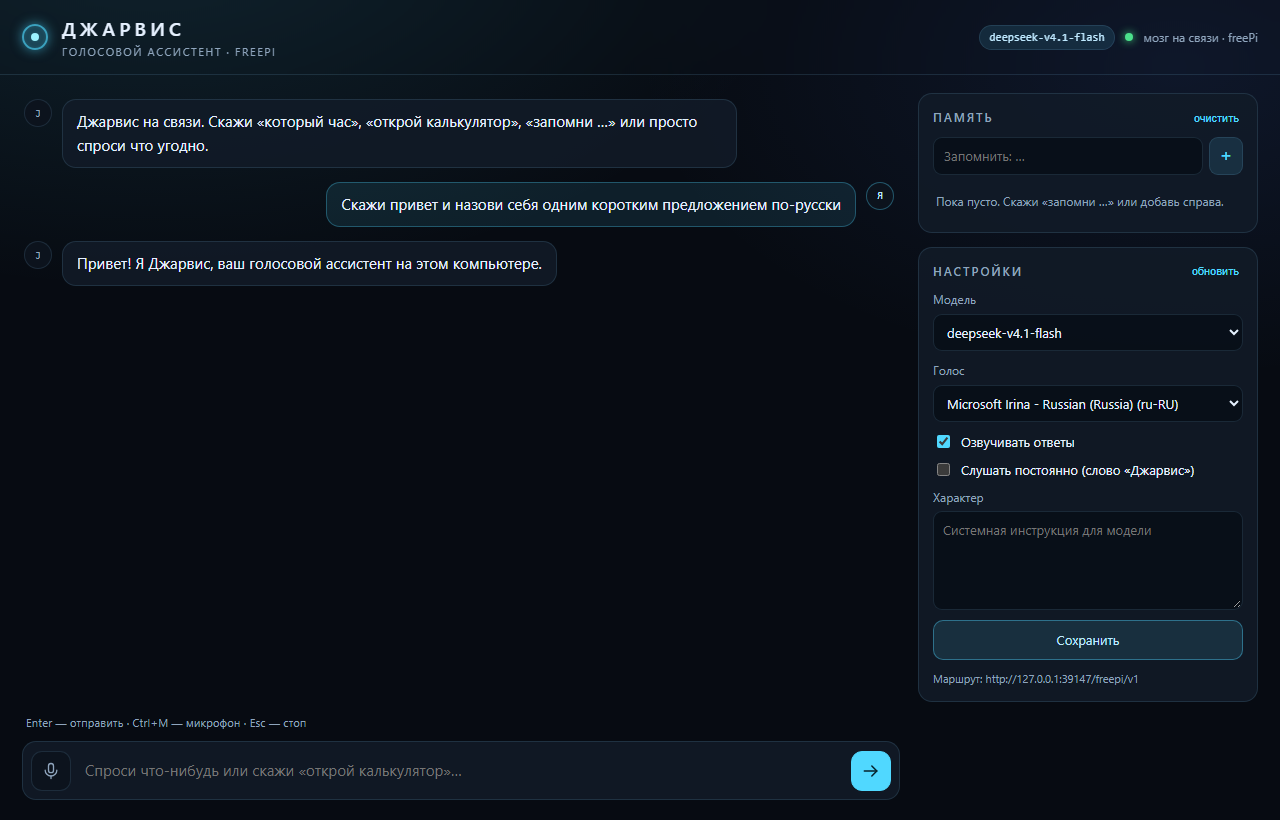
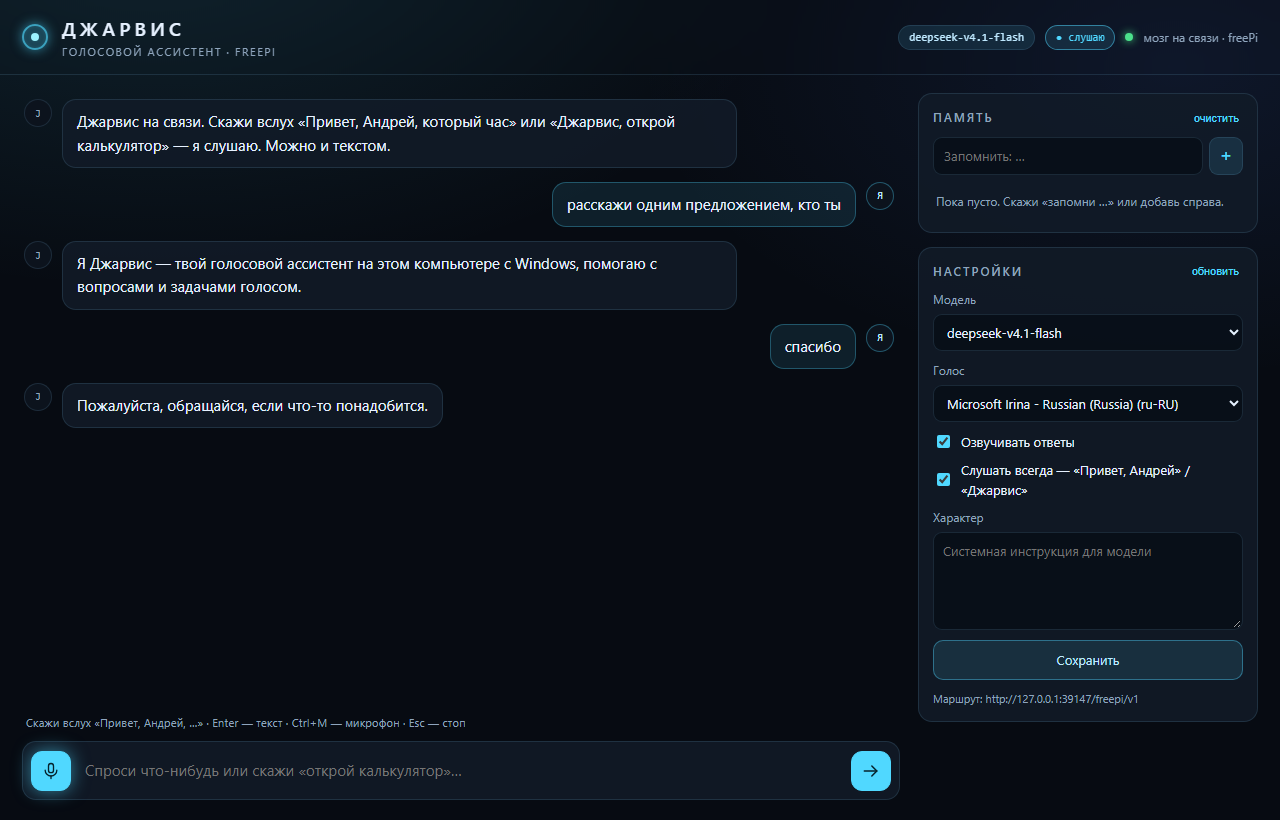
Jarvis: wake phrases and always-on listening

diff --git a/Jarvis/public/app.js b/Jarvis/public/app.js
@@ -12,7 +12,7 @@ const state = {
   busy: false,
   controller: null,
   recognizing: false,
-  handsFree: false,
+  handsFree: true,
   timer: null,
   voices: [],
   lastReply: "",
@@ -183,16 +183,21 @@ function createRecognition() {
   instance.onstart = () => {
     state.recognizing = true
     el("micBtn").setAttribute("aria-pressed", "true")
+    updateVoiceIndicator()
   }
   instance.onend = () => {
     state.recognizing = false
     el("micBtn").setAttribute("aria-pressed", "false")
+    updateVoiceIndicator()
+    if (state.handsFree && !state.micBlocked && !state.busy) scheduleListen()
   }
   instance.onerror = (event) => {
     state.recognizing = false
     el("micBtn").setAttribute("aria-pressed", "false")
+    updateVoiceIndicator()
     if (event.error === "not-allowed" || event.error === "service-not-allowed") {
-      addMessage("assistant", "Браузер не дал доступ к микрофону: разреши его в настройках сайта.")
+      state.micBlocked = true
+      addMessage("assistant", "Браузер не дал доступ к микрофону: нажми на кнопку микрофона или разреши доступ в настройках сайта.")
     }
   }
   instance.onresult = (event) => {
@@ -201,23 +206,40 @@ function createRecognition() {
       text += event.results[index][0].transcript
     }
     const final = event.results[event.results.length - 1].isFinal
-    el("input").value = text.trim()
-    resizeInput()
+    if (!state.handsFree) {
+      el("input").value = text.trim()
+      resizeInput()
+    }
     if (final) {
       const phrase = text.trim()
       if (phrase === "") return
       if (state.handsFree) {
-        const lower = phrase.toLowerCase()
-        if (!lower.includes("джарвис") && !lower.includes("jarvis")) return
-        const stripped = phrase.replace(/джарвис|jarvis/gi, "").replace(/^[\s,.!?:-]+/, "").trim()
-        if (stripped === "") return
-        send(stripped)
+        const parsed = stripWake(phrase)
+        if (parsed === null) return
+        if (parsed.rest === "") {
+          addMessage("assistant", "Слушаю, Андрей.")
+          if (state.settings.autospeak) speak("Слушаю, Андрей.")
+          scheduleListen()
+          return
+        }
+        send(parsed.rest)
         return
       }
       send(phrase)
     }
   }
   return instance
+}
+
+const stripWake = JarvisWake.stripWake
+
+function updateVoiceIndicator() {
+  const chip = el("voiceChip")
+  el("micBtn").classList.toggle("live", state.recognizing === true)
+  if (chip === null) return
+  chip.hidden = !(state.handsFree && recognition !== null)
+  chip.textContent = state.recognizing ? "\u25cf слушаю" : "\u25cb микрофон"
+  chip.classList.toggle("live", state.recognizing === true)
 }
 
 function setListening(on) {
@@ -284,6 +306,7 @@ function pickVoice() {
 
 function speak(text) {
   if (!window.speechSynthesis) return
+  if (state.recognizing) setListening(false)
   window.speechSynthesis.cancel()
   const utterance = new SpeechSynthesisUtterance(text)
   const voice = pickVoice()
@@ -488,11 +511,24 @@ async function boot() {
     addMessage("assistant", "Сервер не отвечает: " + error.message)
   }
 
-  state.handsFree = localStorage.getItem("jarvis-handsfree") === "1"
+  state.handsFree = localStorage.getItem("jarvis-handsfree") !== "0"
   el("handsFree").checked = state.handsFree
 
+  if (state.handsFree) {
+    setListening(true)
+    const retry = () => {
+      if (state.handsFree && (!state.recognizing || state.micBlocked)) {
+        state.micBlocked = false
+        setListening(true)
+      }
+    }
+    document.addEventListener("pointerdown", retry)
+    document.addEventListener("keydown", retry)
+  }
+  updateVoiceIndicator()
+
   if (state.messages.length === 0) {
-    addMessage("assistant", "Джарвис на связи. Скажи «который час», «открой калькулятор», «запомни …» или просто спроси что угодно.")
+    addMessage("assistant", "Джарвис на связи. Скажи вслух «Привет, Андрей, который час» или «Джарвис, открой калькулятор» — я слушаю. Можно и текстом.")
   }
 
   await refreshStatus()
@@ -516,6 +552,7 @@ el("input").addEventListener("keydown", (event) => {
 
 el("micBtn").addEventListener("click", () => {
   if (recognition === null) return
+  state.micBlocked = false
   if (state.recognizing) {
     setListening(false)
     return
@@ -545,8 +582,13 @@ el("saveSettings").addEventListener("click", () => { saveSettings().catch((error
 el("handsFree").addEventListener("change", () => {
   state.handsFree = el("handsFree").checked
   localStorage.setItem("jarvis-handsfree", state.handsFree ? "1" : "0")
-  if (state.handsFree) setListening(true)
-  else setListening(false)
+  updateVoiceIndicator()
+  if (state.handsFree) {
+    state.micBlocked = false
+    setListening(true)
+  } else {
+    setListening(false)
+  }
 })
 
 document.addEventListener("keydown", (event) => {

diff --git a/Jarvis/public/index.html b/Jarvis/public/index.html
@@ -20,6 +20,7 @@
       <div class="status">
         <span class="chip" id="modelChip" title="Модель">—</span>
         <span class="chip timer" id="timerChip" hidden>00:00</span>
+        <span class="chip voice" id="voiceChip" hidden>микрофон</span>
         <span class="dot" id="statusDot" title="Мозг"></span>
         <span class="status-text" id="statusText">проверяю маршрут…</span>
       </div>
@@ -28,7 +29,7 @@
     <main class="main">
       <section class="chat-wrap">
         <div class="chat" id="chat" aria-live="polite"></div>
-        <div class="hint" id="hint">Enter — отправить · Ctrl+M — микрофон · Esc — стоп</div>
+        <div class="hint" id="hint">Скажи вслух «Привет, Андрей, …» · Enter — текст · Ctrl+M — микрофон · Esc — стоп</div>
         <form class="composer" id="composer">
           <button type="button" class="icon-btn mic" id="micBtn" title="Говорить (Ctrl+M)" aria-pressed="false">
             <svg viewBox="0 0 24 24" width="20" height="20" fill="none" stroke="currentColor" stroke-width="1.6" stroke-linecap="round">
@@ -81,8 +82,8 @@
             <span>Озвучивать ответы</span>
           </label>
           <label class="field-row">
-            <input type="checkbox" id="handsFree" />
-            <span>Слушать постоянно (слово «Джарвис»)</span>
+            <input type="checkbox" id="handsFree" checked />
+            <span>Слушать всегда — «Привет, Андрей» / «Джарвис»</span>
           </label>
           <label class="field">
             <span>Характер</span>
@@ -94,6 +95,7 @@
       </aside>
     </main>
   </div>
+  <script src="/wake.js"></script>
   <script src="/app.js"></script>
 </body>
 </html>

diff --git a/Jarvis/public/wake.js b/Jarvis/public/wake.js
@@ -1,0 +1,36 @@
+/* Слова-обращения к Джарвису: вынесено отдельно, чтобы это можно было тестировать без браузера. */
+(function (root) {
+  var WAKE_NAMES = ["джарвис", "jarvis", "андрей", "андрэй"]
+  var WAKE_GREETINGS = ["привет", "здравствуй", "здравствуйте", "хай", "приветствую"]
+
+  function bare(word) {
+    return String(word).replace(/[,.!?:;\-]+$/g, "")
+  }
+
+  /** Возвращает { greeting, rest } без слова-обращения или null, если к Джарвису не обращались. */
+  function stripWake(phrase) {
+    var clean = String(phrase || "").replace(/[«»"]/g, " ").replace(/\s+/g, " ").trim()
+    if (clean === "") return null
+    var words = clean.toLowerCase().split(" ")
+    var isName = function (word) { return WAKE_NAMES.indexOf(bare(word)) !== -1 }
+    var isGreeting = function (word) { return WAKE_GREETINGS.indexOf(bare(word)) !== -1 }
+    if (words.length >= 2 && isGreeting(words[0]) && isName(words[1])) {
+      return { greeting: true, rest: words.slice(2).join(" ").replace(/^[\s,.!?:;\-]+/, "").trim() }
+    }
+    if (isName(words[0])) {
+      return { greeting: false, rest: words.slice(1).join(" ").replace(/^[\s,.!?:;\-]+/, "").trim() }
+    }
+    var inlineRegex = /(^|[^а-яёa-z0-9])(?:джарвис|jarvis)(?![а-яёa-z0-9])/gi
+    var inline = clean.replace(inlineRegex, "$1 ").replace(/\s+/g, " ").trim()
+    if (inline !== clean) {
+      return { greeting: false, rest: inline.replace(/^[\s,.!?:;\-]+/, "").trim() }
+    }
+    return null
+  }
+
+  root.JarvisWake = {
+    stripWake: stripWake,
+    names: WAKE_NAMES,
+    greetings: WAKE_GREETINGS,
+  }
+})(typeof window !== "undefined" ? window : globalThis)

diff --git a/Jarvis/public/style.css b/Jarvis/public/style.css
@@ -17,6 +17,17 @@
 
 [hidden] { display: none !important; }
 
+.icon-btn.mic.live {
+  color: var(--accent);
+  border-color: rgba(80, 216, 255, 0.55);
+  box-shadow: 0 0 0 3px rgba(80, 216, 255, 0.12), 0 0 18px rgba(80, 216, 255, 0.25);
+}
+
+.chip.voice.live {
+  color: var(--accent);
+  border-color: rgba(80, 216, 255, 0.5);
+}
+
 html, body {
   height: 100%;
   margin: 0;
